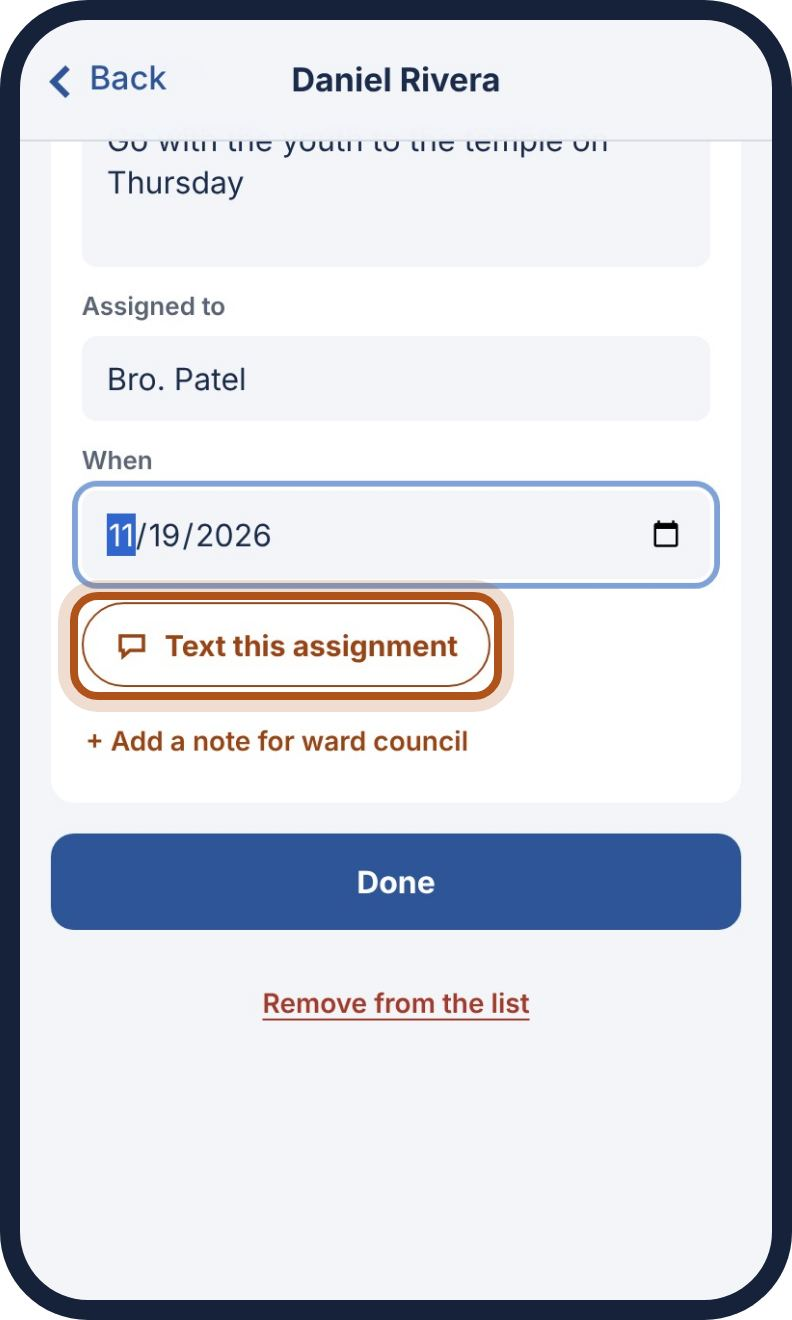
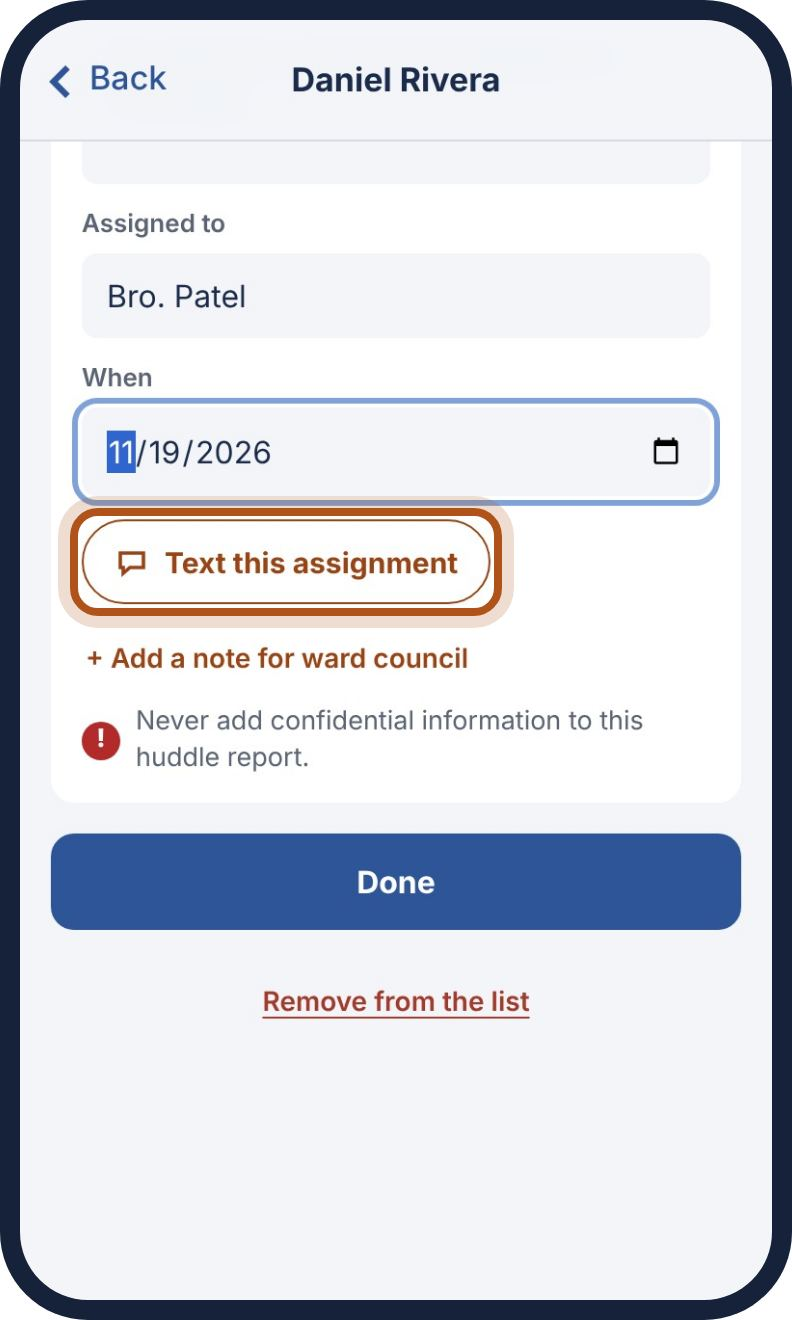
Huddle: the confidential reminder under the notes (a person's Huddle notes, and each Return and Report item)
Claude-Session: https://claude.ai/code/session_01PW98YcMvh8WynmxGN9Y5LD

diff --git a/app.js b/app.js
@@ -530,7 +530,7 @@
       }
       return h('div', { class: 'card rr-card' + (gid ? ' g-' + gid : ''), 'data-status': statusOf(r.happened) }, [head, body,
         // Happened? and the notes stay together so the tour can point at them.
-        h('div', { class: 'rr-answer' }, [seg, carry, field('Notes', 'rr.' + i + '.notes', { placeholder: 'How did it go?' })])]);
+        h('div', { class: 'rr-answer' }, [seg, carry, field('Notes', 'rr.' + i + '.notes', { placeholder: 'How did it go?' }), confNote()])]);
   }
 
   function statusOf(v) { return { Yes: 'yes', Partly: 'partly', No: 'no' }[v] || ''; }
@@ -678,7 +678,8 @@
         h('div', { class: 'assign-actions' }, [textAssignButton(base)]),
         hneedField
       ]),
-      hneedLink
+      hneedLink,
+      confNote() // under the notes, the same reminder as under the step card
     ]);
   }
   function cardFields(base, nameLabel, namePh, whenPh, tag, withBap, needPh, ordPh, wcExtra, fixedOrd) {
@@ -769,7 +770,7 @@
     Array.prototype.forEach.call(card.querySelectorAll('.wc-last'), function (x) { x.remove(); });
     (card.classList.contains('person-wc') ? [wcLast(gid, a)].filter(Boolean) : wcExtras(gid, a)).forEach(function (x) { card.appendChild(x); });
   }
-  // Under Needs on a ward council name: the same reminder that sits under the step card.
+  // Under Needs on a ward council name, and under the notes in the Huddle: the same reminder that sits under the step card.
   function confNote() {
     return h('p', { class: 'wc-note need-note full' }, [h('span', { class: 'help-warning-icon', 'aria-hidden': 'true', text: '!' }), h('span', { text: 'Never add confidential information to this huddle report.' })]);
   }

diff --git a/test/changes.js b/test/changes.js
@@ -67,6 +67,9 @@ const ok = (c, m) => { if (c) { passed++; console.log('PASS ' + m); } else { fai
 
   // Change things after step 1 (in the huddle): sacrament for Daniel, a new need for Marcus, a new name
   await p.click('.nav-home'); await w(400); await p.click('.door-hd'); await w(500);
+  await p.click('[data-action="open-step"][data-a="cp"]'); await w(400); await p.locator('[data-action="open-person"]').first().click(); await w(500);
+  ok(await p.evaluate(() => { const z = document.querySelector('#person-card .zone-hd-wrap'), n = z && z.lastElementChild; return !!n && n.classList.contains('need-note') && /Never add confidential information/.test(n.textContent); }), 'Huddle: the confidential reminder sits under the notes on a name');
+  await p.click('.nav-home'); await w(400); await p.click('.door-hd'); await w(500);
   ok(await p.evaluate(() => { const h = document.querySelector('#hd-hero'), n = document.querySelector('#hd-note'); return !n.hidden && h.nextElementSibling === n; }), 'Huddle: the confidential reminder sits right under the step card');
   await p.evaluate(() => {
     const s = JSON.parse(localStorage.getItem('huddle-agenda-v1'));

diff --git a/sw.js b/sw.js
@@ -1,5 +1,5 @@
 /* Offline support: caches the page's own files only. It never stores form data. */
-var CACHE = 'huddle-v229';
+var CACHE = 'huddle-v230';
 var FILES = [
   './',
   'index.html',

diff --git a/docs/SPEC.md b/docs/SPEC.md
@@ -277,8 +277,9 @@ outside the app (`target="_blank"`), for finding names to discuss. Member Tools 
 it always opens the web page. It shows on the four-row screen only, not on the lists of names.
 Right under the step card, once, is "Never add confidential information to this huddle report." as one
 small gray line with a red "!" (the Huddle has the same line in the same place). On a person's Ward council
-screen the same line sits right under the **Needs** box, where details are typed. It is not repeated on the
-lists. New members' rows show the same temple countdown as in the Huddle
+screen the same line sits right under the **Needs** box, where details are typed. In the Huddle it sits under
+the notes: at the end of a person's **Huddle · How & When** (under Huddle notes, or under "+ Add a note for ward
+council") and under **Notes** on each Return and Report item. It is not repeated on the lists. New members' rows show the same temple countdown as in the Huddle
 ("Temple: 14 days left" in red), so the 30-day goal is in front of both meetings.
 
 **The name is edited in the header, and only there.** On every person's screen (Before ward council, Ward
